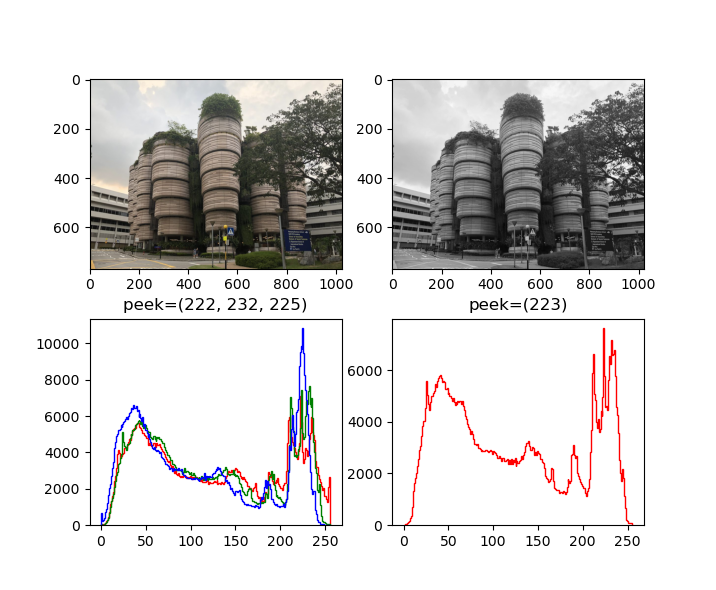
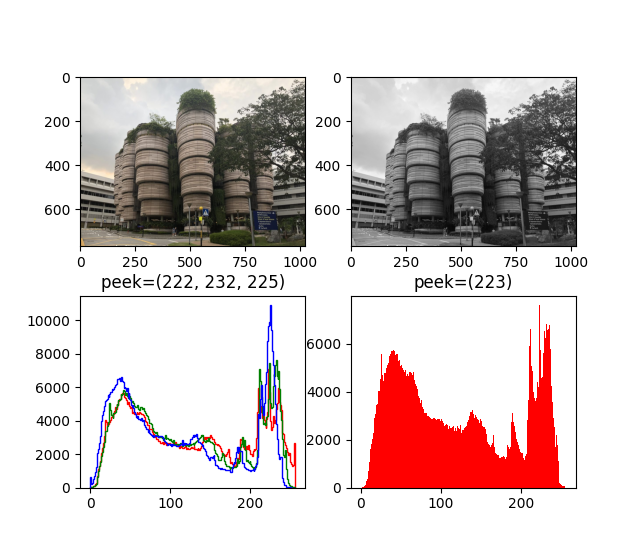
Most of figures and applications

diff --git a/processing.py b/processing.py
@@ -1,7 +1,6 @@
 import numpy as np
 
 
-# =================================> Point operators
 def bright_contrast(img, a, b):
     """
     Take a basic linear operation to an Image ndarray, which can be described as 'des = a .* img + b'
@@ -62,7 +61,7 @@ def cdf_mapping(vector, clip):
         hI = clip_histogram_(hI)
     cI = np.cumsum(hI, dtype=np.float64)
     cI = cI * 256.0 / N
-    cI = cI.astype(np.uint8)
+    cI = (cI-min(cI)).astype(np.uint8)
     return cI
 
 
@@ -72,28 +71,29 @@ def hist_equalization(img, clip=False):
         for channel in range(img.shape[2]):
             in_vector = img[:, :, channel].flatten()
             cI = cdf_mapping(in_vector, clip)
-            # 通过numpy的数组索引简化代码并加快运行速度
             img_ret[:, :, channel] = cI[img[:, :, channel]]
     else:
         in_vector = img.flatten()
         cI = cdf_mapping(in_vector, clip)
-        # 通过numpy的数组索引简化代码并加快运行速度
         img_ret = cI[img]
     return img_ret
 
 
-def contrast_limited_AHE(img, block):
+def contrast_limited_AHE(img_ori, block):
+    img = img_ori.copy()
     h = img.shape[0]
     w = img.shape[1]
     # 判断是灰度图还是彩色图
-    if len(img) >= 3:
+    if len(img.shape) >= 3:
         channel = img.shape[2]
     else:
         channel = 1
+        img = np.expand_dims(img, 2)
     # 四舍五入以减小分区的不均匀性
     step_r = int(h / block + 0.5)
     step_c = int(w / block + 0.5)
     hist_map = np.zeros((h, w, 256, channel))
+    # AHE part
     for i in range(block):
         for j in range(block):
             for c in range(channel):
@@ -129,6 +129,61 @@ def contrast_limited_AHE(img, block):
                                        hist_map[axis_x + sign_x, axis_y, img[x, y, c], c] * abs(rela_x) * (1 - abs(rela_y)) + \
                                        hist_map[axis_x, axis_y + sign_y, img[x, y, c], c] * (1 - abs(rela_x)) * abs(rela_y) + \
                                        hist_map[axis_x + sign_x, axis_y + sign_y, img[x, y, c], c] * abs(rela_x) * abs(rela_y)
+    if channel == 1:
+        return np.squeeze(img_ret, 2)
+    return img_ret
+
+
+def global_threshold(img):
+    init_th = 128
+    vector = img.flatten()
+    n = len(vector)
+    hist = np.histogram(vector, bins=range(257))[0]/n
+
+    g1 = hist[init_th+1:]
+    g2 = hist[:init_th]
+    mu1 = 0
+    for i, g in enumerate(g1):
+        mu1 += g * (i + init_th + 1)
+    mu1 /= sum(g1)+1e-8
+    mu2 = 0
+    for i, g in enumerate(g2):
+        mu2 += g * i
+    mu2 /= sum(g2)+1e-8
+    old_th = init_th
+    th = int((mu1 + mu2) / 2)
+    while abs(old_th-th) > 1:
+        g1 = hist[th + 1:]
+        g2 = hist[:th]
+        mu1 = 0
+        for i, g in enumerate(g1):
+            mu1 += g * (i + th + 1)
+        mu1 /= sum(g1)+1e-8
+        mu2 = 0
+        for i, g in enumerate(g2):
+            mu2 += g * i
+        mu2 /= sum(g2)+1e-8
+        old_th = th
+        th = int((mu1 + mu2) / 2)
+
+    img_th = np.zeros(img.shape)
+    img_th[img > th] = 255
+    return img_th
+
+
+def adaptive_threshold(img_ori, block):
+    img_ret = np.zeros(img_ori.shape)
+    img = img_ori.copy()
+    h = img.shape[0]
+    w = img.shape[1]
+
+    step_r = int(h / block + 0.5)
+    step_c = int(w / block + 0.5)
+
+    for i in range(block):
+        for j in range(block):
+            img_block = img[i*step_r:min((i+1)*step_r, h), j*step_c:min((j+1)*step_c, w)]
+            img_ret[i*step_r:min((i+1)*step_r, h), j*step_c:min((j+1)*step_c, w)] = global_threshold(img_block)
     return img_ret
 
 
@@ -167,52 +222,52 @@ def convolve(arr, kernel, padding='full'):
     return arr_ret
 
 
-class Pyramid:
-    # TODO：有关图片尺寸错误信息的判断
-    def __init__(self, img):
-        self.gaussian = []
-        self.laplacian = []
-        self.gaussian.append(img)
-        self.index = 0
-
-    def pyrDown(self):
-        img_copy = self.gaussian[self.index]
-        img_temp = cv.resize(img_copy, (img_copy.shape[1]+4, img_copy.shape[0]+4))
-        img_temp = convolve_sep(img_temp, binominal_5)
-        map_scale = np.zeros((img_temp.shape[0]//2, img_temp.shape[1]//2))
-        for i in range(map_scale.shape[0]):
-            for j in range(map_scale.shape[1]):
-                map_scale[i, j] = img_temp[i*2+1, j*2+1]
-        self.gaussian.append(map_scale)
-        map_gaussian = self.rescale(self.gaussian[self.index+1])
-        self.laplacian.append(self.gaussian[self.index] - map_gaussian)
-        self.index += 1
-
-    def rescale(self, arr, scale=2):
-        arr_ret = np.zeros((arr.shape[0]*scale, arr.shape[1]*scale))
-        for i in range(arr.shape[0]):
-            for j in range(arr.shape[1]):
-                arr_ret[scale*i, scale*j] = arr[i, j]
-        return convolve_sep(arr_ret, binominal_5_2, 'same')
-
-    def gaussian_img(self, index):
-        img_ret = self.gaussian[index]
-        for i in range(index):
-            img_ret = self.rescale(img_ret)
-        return img_ret
-
-    def laplacian_img(self, index):
-        img_ret = self.laplacian[index]
-        for i in range(index):
-            img_ret = self.rescale(img_ret)
-        return img_ret
-
-    def clip(self, arr):
-        if arr.shape[0] % 2 == 1:
-            arr = arr[:-1, :]
-        if arr.shape[1] % 2 == 1:
-            arr = arr[:, :-1]
-        return arr
+# class Pyramid:
+#     # TODO：有关图片尺寸错误信息的判断
+#     def __init__(self, img):
+#         self.gaussian = []
+#         self.laplacian = []
+#         self.gaussian.append(img)
+#         self.index = 0
+#
+#     def pyrDown(self):
+#         img_copy = self.gaussian[self.index]
+#         img_temp = cv.resize(img_copy, (img_copy.shape[1]+4, img_copy.shape[0]+4))
+#         img_temp = convolve_sep(img_temp, binominal_5)
+#         map_scale = np.zeros((img_temp.shape[0]//2, img_temp.shape[1]//2))
+#         for i in range(map_scale.shape[0]):
+#             for j in range(map_scale.shape[1]):
+#                 map_scale[i, j] = img_temp[i*2+1, j*2+1]
+#         self.gaussian.append(map_scale)
+#         map_gaussian = self.rescale(self.gaussian[self.index+1])
+#         self.laplacian.append(self.gaussian[self.index] - map_gaussian)
+#         self.index += 1
+#
+#     def rescale(self, arr, scale=2):
+#         arr_ret = np.zeros((arr.shape[0]*scale, arr.shape[1]*scale))
+#         for i in range(arr.shape[0]):
+#             for j in range(arr.shape[1]):
+#                 arr_ret[scale*i, scale*j] = arr[i, j]
+#         return convolve_sep(arr_ret, binominal_5_2, 'same')
+#
+#     def gaussian_img(self, index):
+#         img_ret = self.gaussian[index]
+#         for i in range(index):
+#             img_ret = self.rescale(img_ret)
+#         return img_ret
+#
+#     def laplacian_img(self, index):
+#         img_ret = self.laplacian[index]
+#         for i in range(index):
+#             img_ret = self.rescale(img_ret)
+#         return img_ret
+#
+#     def clip(self, arr):
+#         if arr.shape[0] % 2 == 1:
+#             arr = arr[:-1, :]
+#         if arr.shape[1] % 2 == 1:
+#             arr = arr[:, :-1]
+#         return arr
 
 
 def byte_layer(arr):
@@ -242,8 +297,3 @@ def sorted_filter(arr, k_size):
             arr_ret[i, j] = temp[med-1]
     return arr_ret
 
-if __name__ == "__main__":
-    arr = np.array([[1, 2, 3], [4, 5, 6], [7, 8, 9]])
-    k = np.array([[1, 2, 1]])
-    ret1 = sorted_filter(arr, 3)
-    pass

diff --git a/main.py b/main.py
@@ -3,7 +3,6 @@ import numpy as np
 from matplotlib import pyplot as plt
 import visualization as vis
 import processing as proc
-import application as app
 
 # Read image information for RGB and Gray
 img = Image.open("./hive.jpg")
@@ -12,36 +11,38 @@ img_g = img.convert('L')
 img_g_np = np.array(img_g)
 
 # Choose the no. of figure to showed
-fig_th = 1
+fig_th = 6
 
 if __name__ == "__main__":
-    '''>>>>Fig 1.1<<<<'''
     if fig_th == 1:
-        vis.compare(img_np, img_g_np)
-    # img2 = np.array([[[0, 0, 0], [127, 127, 127]], [[255, 255, 255], [0, 255, 255]]])
-    # fig = plt.figure()
-    # x = np.linspace(0, 1, 100)[1:]
-    # y = 1 / (1 + 1 / x)
-    # fig.add_subplot(1, 2, 1)
-    # plt.plot(x, y)
-    # y = 1 / (1 + np.power(128 / x, 50))
-    # fig.add_subplot(1, 2, 2)
-    # plt.plot(x, y)
-    # plt.imshow(img2)
-
-    # pyr = proc.Pyramid(img_np)
-    # pyr.pyrDown()
-    #
-
-    # img_test2 = img_np-proc.convolve(proc.convolve(img_np, proc.binominal_3, padding='same'), proc.binominal_3.T, padding='same')
-    # img_test = (img_np + img_test2).clip(min=0, max=255)
-    # vis.compare(img_np, img_test, img_test2)
-
-    # ret = proc.byte_layer(img_np)
-    # ret.append(img_np)
-    # ret.append(ret[7]*128+ret[6]*64)
-    # ret.append(ret[7] * 128 + ret[6] * 64+ret[5]*32)
-    # ret.append(ret[7] * 128 + ret[6] * 64 + ret[5] * 32+ret[4]*16)
-    # vis.grid_show(ret)
-
+        '''>>>>Fig 1.1<<<<'''
+        '''>>>>Fig 3.1<<<<'''
+        vis.compare(img_g_np)
+    elif fig_th == 2:
+        '''>>>>Fig 2.1, Fig 2.2<<<<'''
+        img_hist_eq = proc.hist_equalization(img_np)
+        img_g_hist_eq = proc.hist_equalization(img_g_np)
+        vis.compare(img_np, img_hist_eq)
+    elif fig_th == 3:
+        '''>>>>Fig 2.3<<<<'''
+        in_vector = img_g_np.flatten()
+        cI = proc.cdf_mapping(in_vector, False)
+        plt.plot(cI)
+    elif fig_th == 4:
+        '''>>>>Fig 2.5, Fig 2.6<<<<'''
+        img_hist_eq = proc.hist_equalization(img_np)
+        img_g_hist_eq = proc.hist_equalization(img_g_np)
+        img_ahist_eq = proc.contrast_limited_AHE(img_np, 8)
+        img_g_ahist_eq = proc.contrast_limited_AHE(img_g_np, 8)
+        vis.compare(img_g_np, img_g_hist_eq, img_g_ahist_eq)
+    elif fig_th == 5:
+        '''>>>>Fig 3.2<<<<'''
+        img_th = proc.global_threshold(img_g_np)
+        plt.imshow(img_th, cmap='gray')
+    elif fig_th == 6:
+        '''>>>>Fig 3.3<<<<'''
+        img_th1 = proc.global_threshold(img_g_np)
+        img_th2 = proc.adaptive_threshold(img_g_np, block=2)
+        img_th3 = proc.adaptive_threshold(img_g_np, block=4)
+        vis.grid_show([img_g_np, img_th1, img_th2, img_th3])
     plt.show()

diff --git a/visualization.py b/visualization.py
@@ -2,8 +2,8 @@ from matplotlib import pyplot as plt
 import math
 
 
-def onecolor_hist(vec, color):
-    x, *_ = plt.hist(vec, bins=range(257), color=color, histtype='step')
+def onecolor_hist(vec, color, histtype='step'):
+    x, *_ = plt.hist(vec, bins=range(257), color=color, histtype=histtype)
     peek = x.argmax()
     return peek
 
@@ -20,7 +20,7 @@ def hist_show(img, ax):
         ax.set_title(str_argmax)
     elif len(img.shape) == 2:
         g = img.flatten()
-        g_peek = onecolor_hist(g, 'r')
+        g_peek = onecolor_hist(g, 'r', 'bar')
         str_argmax = "peek=(%d)" % g_peek
         ax.set_title(str_argmax)
 
